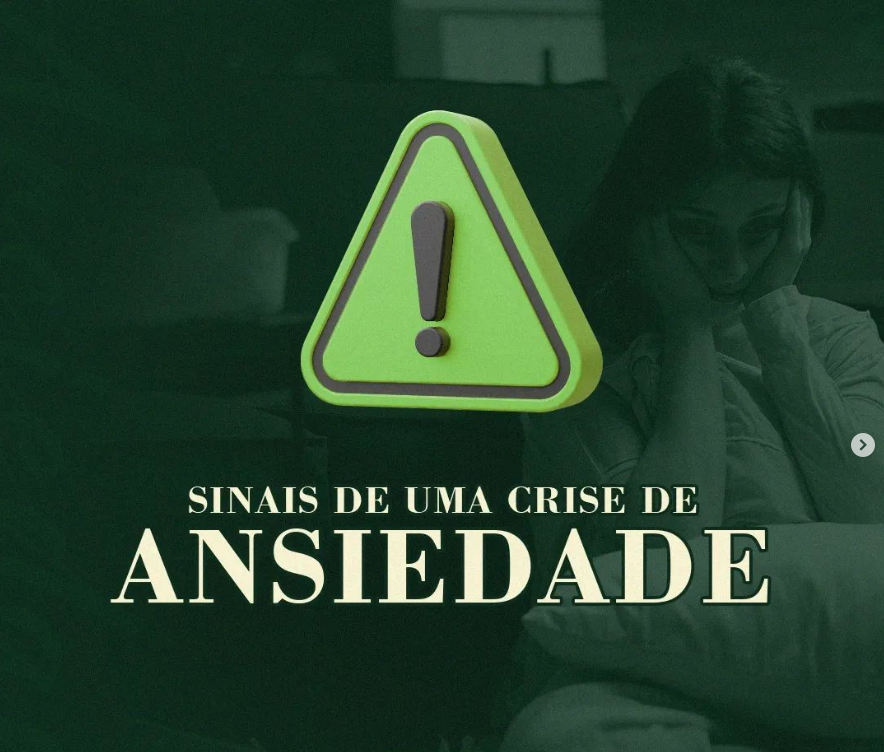
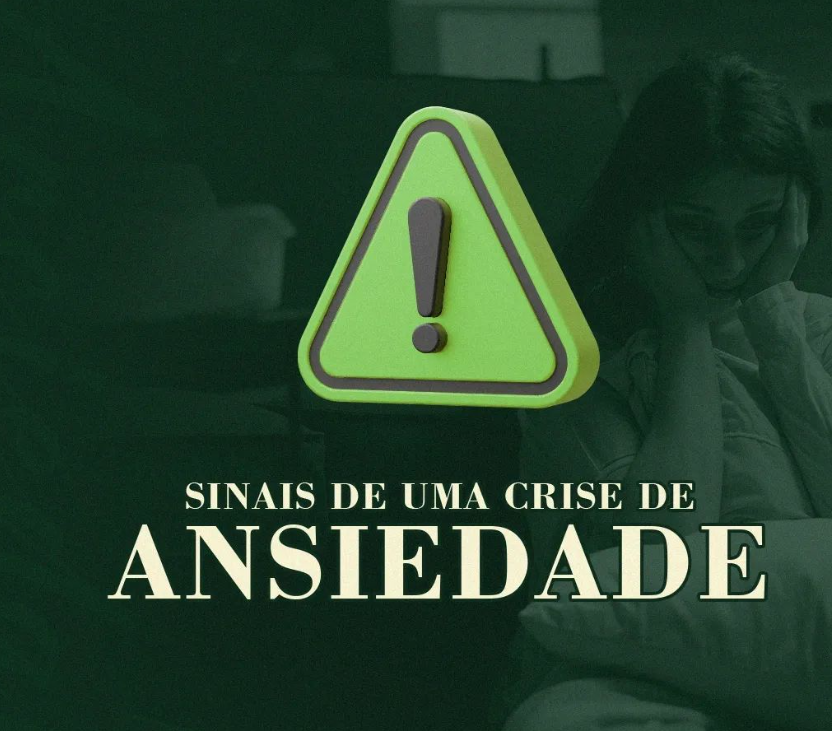
update html and css
new text page

diff --git a/gallery2.html b/gallery2.html
@@ -48,29 +48,24 @@
     <section class="container_texts">
       <div class="container_text__photo">
         <img
-          src="/src/img/gallery/gallery1-notitle.png"
+          src="/src/img/gallery/gallery2.png"
           alt="foto de perfil da Psicanalista Katia Dagostin"
           class="container_text__img" />
       </div>
       <div class="container_text">
-        <h1 class="container_text__h1">A busca pela Independência</h1>
+        <h1 class="container_text__h1">Aprenda a escutar os sinais da sua mente e do seu corpo</h1>
+        <h2 class="container_text__h2">Sintomas Físicos intensos:</h2>
         <p class="container_conceito__p">
-          A adolescência é uma fase marcada pela busca pela independência, onde
-          os jovens estão em constante processo de descoberta e autoafirmação. É
-          comum surgir a pergunta: "Será que eles querem distância dos pais?".
+           Durante uma crise de ansiedade, a pessoa pode sentir sintomas fisicos intensos, como palpitaçõesm sudorese, tremores, falta de ar, náuseas ou tonturas
         </p>
+        <h2 class="container_text__h2">Preocupações e pensamentos obsessivos:</h2>
         <p class="container_conceito__p">
-          A verdade é que os adolescentes desejam encontrar seu próprio caminho,
-          expressar sua individualidade e conquistar autonomia. No entanto, essa
-          busca pela independência não significa que não precisem do amor,
-          suporte e orientação dos pais. É um equilíbrio delicado entre
-          respeitar sua necessidade de espaço e estar presente para oferecer
-          apoio e segurança.
+         A ansiedade pode levar a uma intensa Preocupação com coisas que podem não ser necessariamente racionais. Durante uma crise de ansiedade, a pessoa pode sentir pensamentos absessivos, como medo de perder o controle, de ter um ataque cardíaco ou de morrer.
         </p>
-        <!-- <p class="container_conceito__p">
-          Vamos entender juntos essa dinâmica e fortalecer os laços familiares,
-          caminhando lado a lado na jornada da adolescência
-        </p> -->
+        <h2 class="container_text__h2">Sensação de despersonalização ou desrealização:</h2>
+        <p class="container_conceito__p">
+          Durante uma crise de ansiedade, a pessoa pode sentir como se estivesse fora do próprio corpo ou como se a realidade ao redor dela não fosse real.
+        </p>
       </div>
     </section>
   </body>

diff --git a/src/styles/text.css b/src/styles/text.css
@@ -1,40 +1,57 @@
 .container_texts {
-    display: flex;
-    justify-content: center;
-    background-color: #fff0d1;
-    height: 617px;
-    width: 1348px;
+  display: flex;
+  justify-content: center;
+  text-align: center;
+  background-color: #fff0d1;
+  height: 100vh;
+  width: 100vw;
+  position: fixed;
 }
 
 .container_text__img {
-    width: 500px;
-    height: 617px;
-      -webkit-mask-image: linear-gradient(to left, transparent 5%, green 40%);
-      opacity: 0.5;
+  display: flex;
+  justify-self: center;
+  width: 1400px;
+  height: 717px;
+  position: absolute;
+  opacity: 0.2;
 }
 
 .container_text__h1 {
-    font-family: var(--main-font);
-    font-size: 43px;
-    font-weight: bold;
-    font-style: normal;
-    color: var(--green-color);
-    height: 80px;
-    display: flex;
-    justify-content: center;
-    align-items: center;
+  font-family: var(--main-font);
+  font-size: 40px;
+  font-weight: bolder;
+  font-style: normal;
+  color: var(--green-color);
+  height: 80px;
+  display: flex;
+  justify-content: center;
+  align-items: center;
+}
 
+.container_text__h2 {
+  font-family: var(--main-font);
+  font-size: 33px;
+  font-weight: bolder;
+  font-style: normal;
+  color: var(--green-color);
+  height: 60px;
+  display: flex;
+  justify-content: center;
+  align-items: center;
 }
 
 .container_conceito__p {
-    display: flex;
-    align-items: center;
-    text-align: center;
-    font-family: var(--second-font);
-    height: 205px;
-    font-family: var(--main-font);
-    font-size: 24px;
-    font-weight: bold;
-    font-style: normal;
-    margin-bottom: -40px;
+  display: flex;
+  align-items: center;
+  text-align: center;
+  font-family: var(--second-font);
+  height: 200px;
+  font-size: 23px;
+  font-weight: bold;
+  font-style: normal;
+  margin-bottom: -70px;
+  margin-top: -50px;
+  padding: 0px 20px 0px 20px;
+  color: var(--green-color);
 }

diff --git a/home.html b/home.html
@@ -34,7 +34,7 @@
       <div class="header_menu__nav">
         <nav class="header_menu__list">
           <a href="#about" class="header_menu__item">Sobre</a>
-          <a href="#textos" class="header_menu__item">Textos</a>
+          <a href="#text" class="header_menu__item">Textos</a>
           <a href="" class="header_menu__item">Contato</a>
         </nav>
       </div>
@@ -70,7 +70,7 @@
     <!-- First Section: Conceito ends here -->
 
     <!-- Second Section: About starts here -->
-    <section class="container_about">
+    <section class="container_about" id="about">
       <div class="container_about__text">
         <h1 class="container_about__h1">Um pouco sobre mim...</h1>
         <p class="container_about__p">
@@ -89,7 +89,7 @@
 
     <!-- Third Section: Gallery starts here -->
 
-    <section class="container_gallery">
+    <section class="container_gallery" id="text">
       <div class="container_gallery__title">Textos</div>
       <div id="container_gallery__images">
         <a href="/gallery1.html"
@@ -98,7 +98,7 @@
             alt="foto de mae e filha discuntindo ou conversando"
             class="container_gallery__image"
         /></a>
-        <a href=""
+        <a href="/gallery2.html"
           ><img
             src="/src/img/gallery/gallery2.png"
             alt="foto de uma menina com crise de ansiedade"
